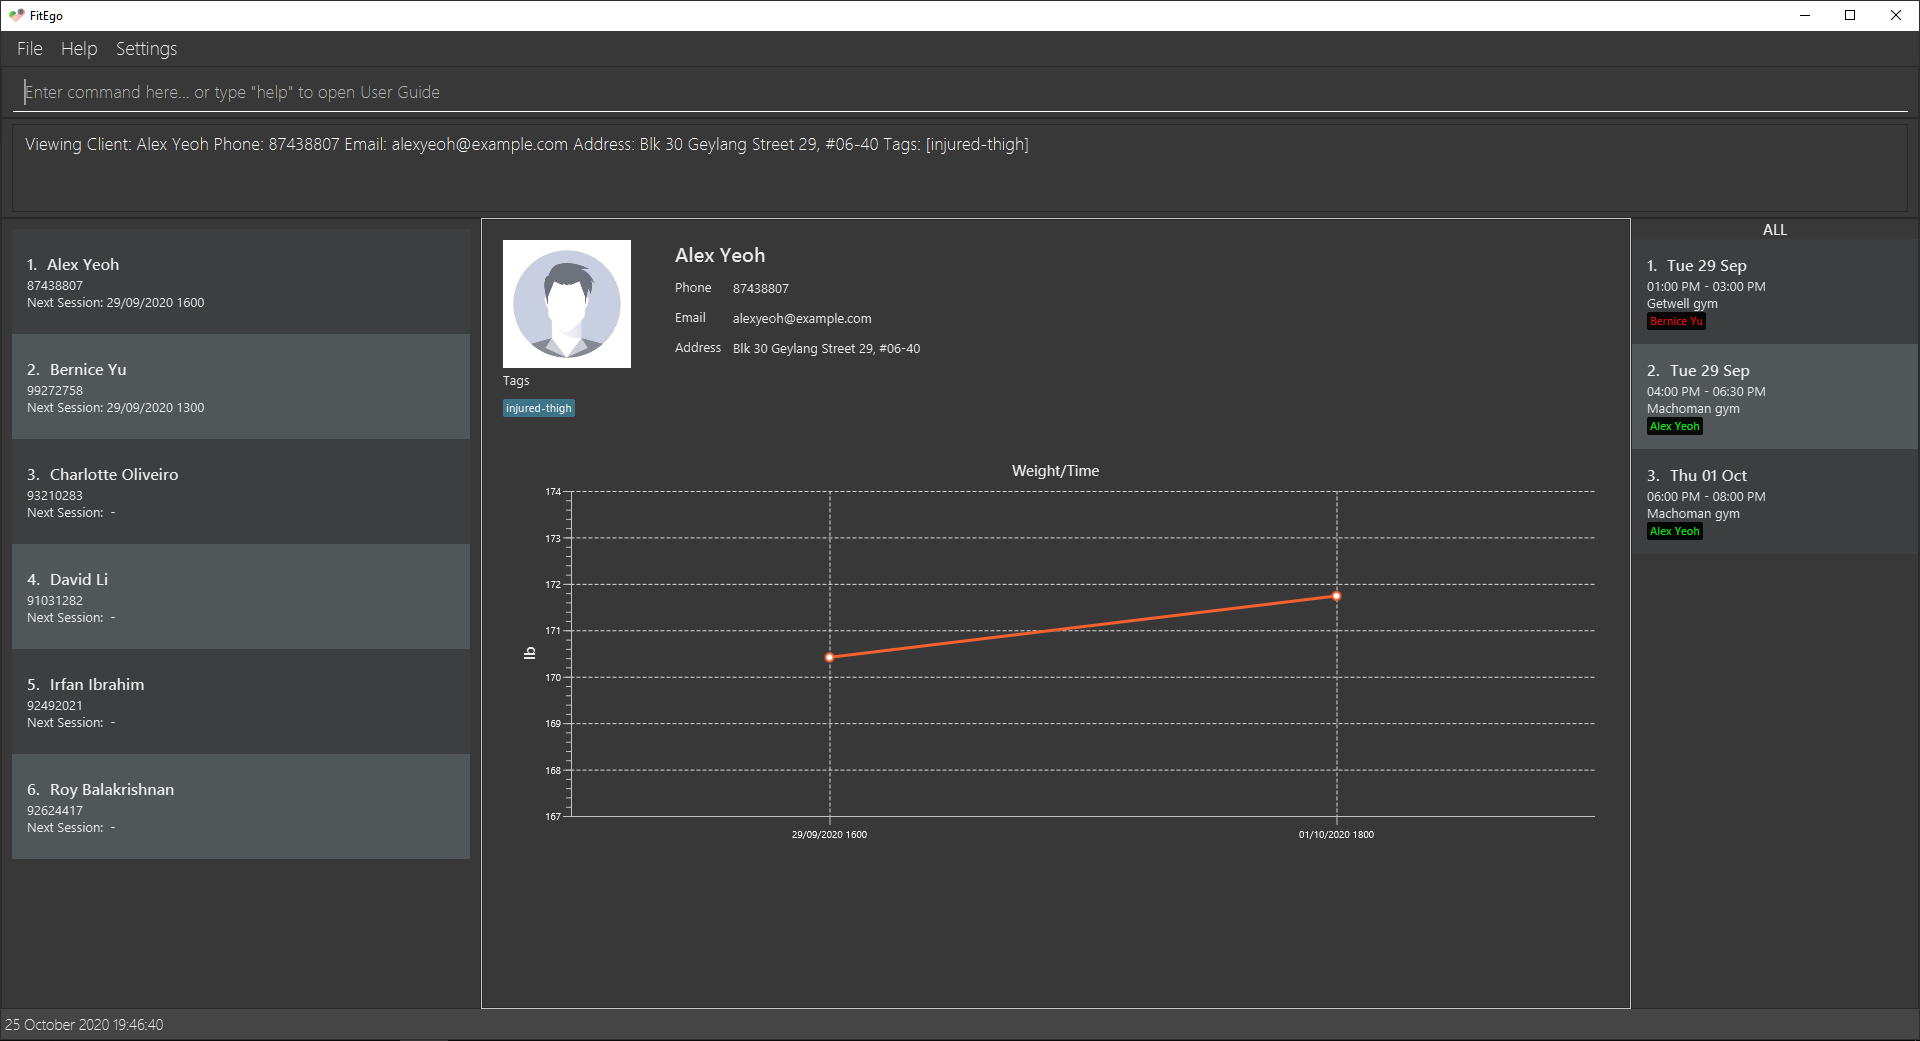
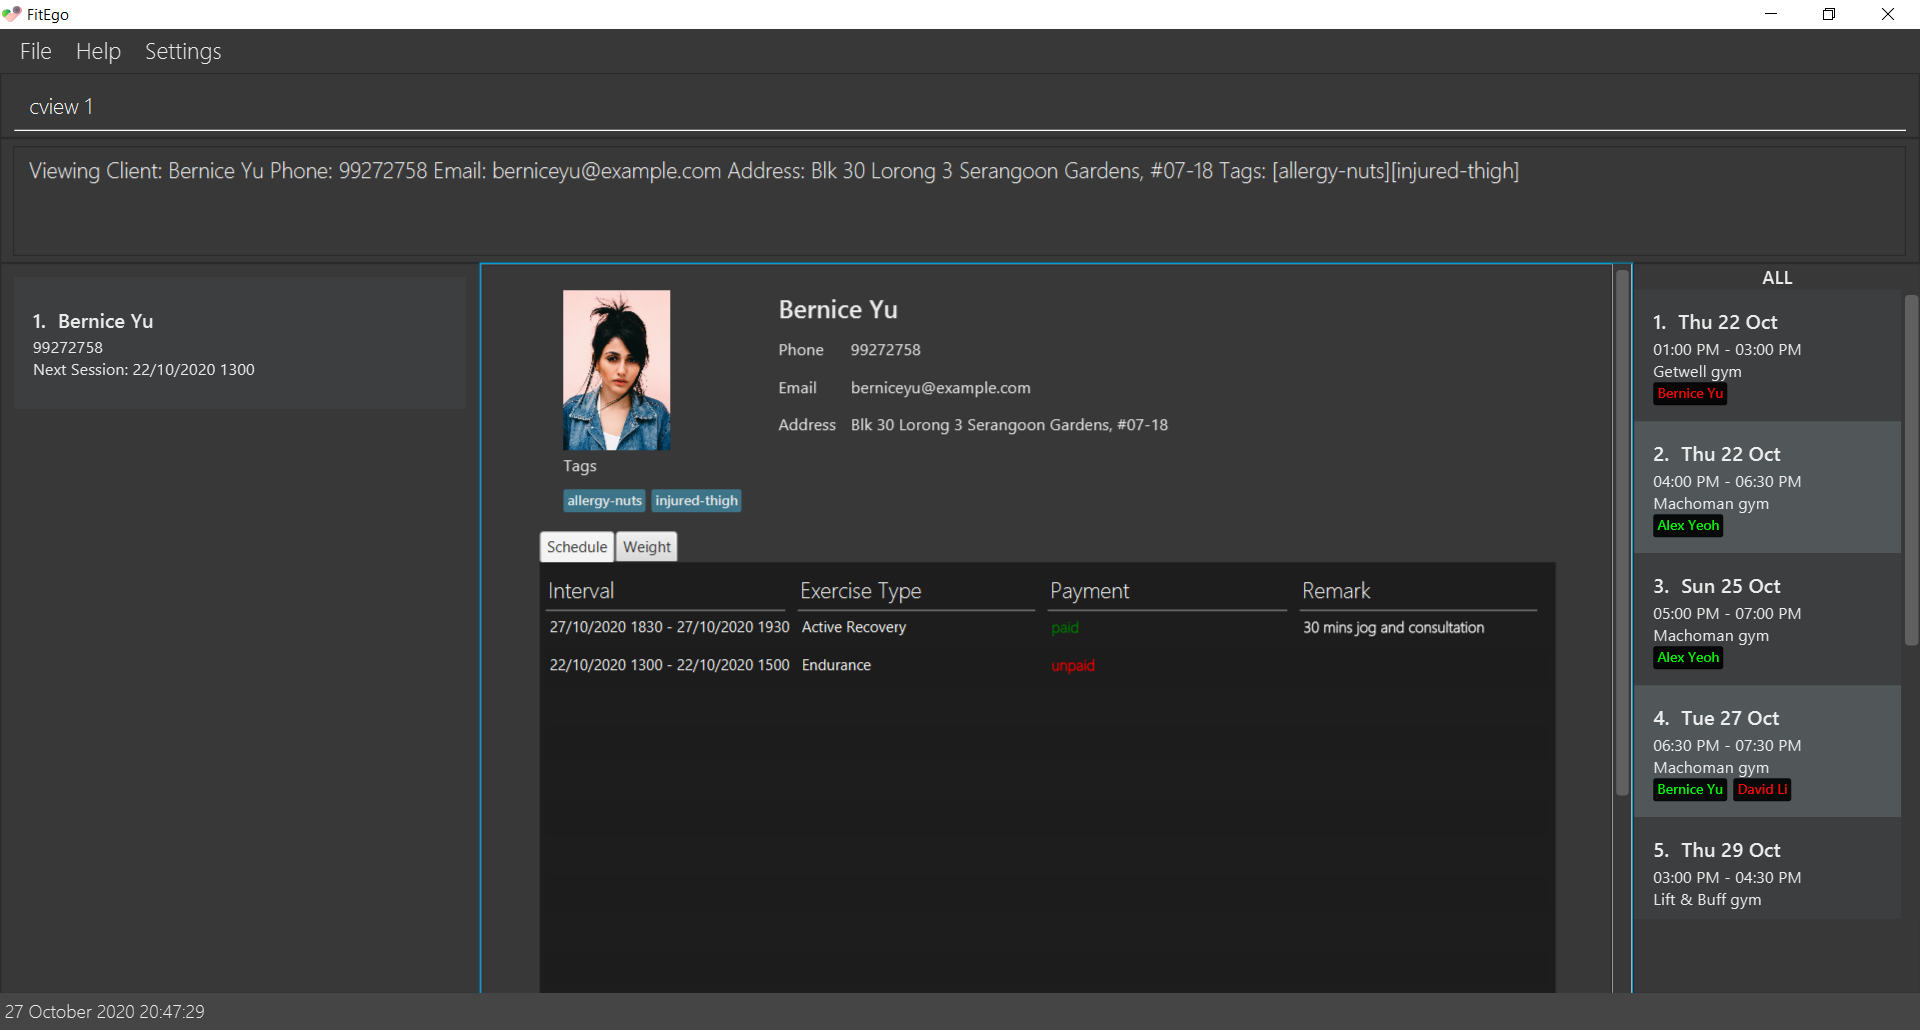
Update cview image

diff --git a/docs/UserGuide.md b/docs/UserGuide.md
@@ -234,6 +234,15 @@ You can return to the home page by using this command.
 <center> Figure 4 - Homepage View </center>
 
 The homepage will display the statistics of your program, today's schedule and quote of the day as shown in the figure above. 
+If you do not have any planned schedules for the day, it will display `There is no schedules assigned today!`.  
+
+<div markdown="block" class="alert alert-warning">
+
+:star: **Feature:**
+
+If your session spreads over more than 1 day, the schedule will still be displayed if it intersects with today's date. 
+
+</div>
 
 ### 3.1.2 Viewing help : `help`
 
@@ -247,8 +256,8 @@ Format: `help`
 <div markdown="span" class="alert alert-primary">
 
 :bulb: **Tip:**
-By default, you can click enter and a browser will open the User Guide. 
-You may also press "ESC" key to close this window. 
+By default, you can press "ENTER" key and a browser will open the User Guide. This pop-up window will close after you clicked on the link. 
+Alternatively, you may press the "ESC" key to close this window. 
 </div>
 
 ### 3.1.3 Viewing settings: `settings`
@@ -285,7 +294,7 @@ You will not be able to retrieve your previous data unless you have backed up th
 
 ### 3.1.5 Exiting the program : `exit`
 
-You can exit the program using the `exit` command.
+You can exit the program using the `exit` command. Your data is saved automatically. 
 
 Format: `exit`
 
@@ -417,7 +426,7 @@ Points to take note when viewing clients from the Client List:
 
 :star: **Feature:**
 
-If you edit the client's name, you need to re-run the earlier <code>cview</code> command to see the updates.
+If you perform [`cedit`](#323-editing-a-client--cedit) and [`cdel`](#325-deleting-a-client--cdel), you will be returned to the homepage. 
 
 </div>
 
@@ -429,7 +438,7 @@ Examples:
 
 <center><img src="images/cview_sample.png" alt="result for 'cview 1'" width="100%"/></center>
 
-<center>Figure 8 - Result of running <code>cfind Bernice</code> then <code>cview 1</code></center>
+<center>Figure 8 - Client View with Schedules </center>
 
 ---
 
